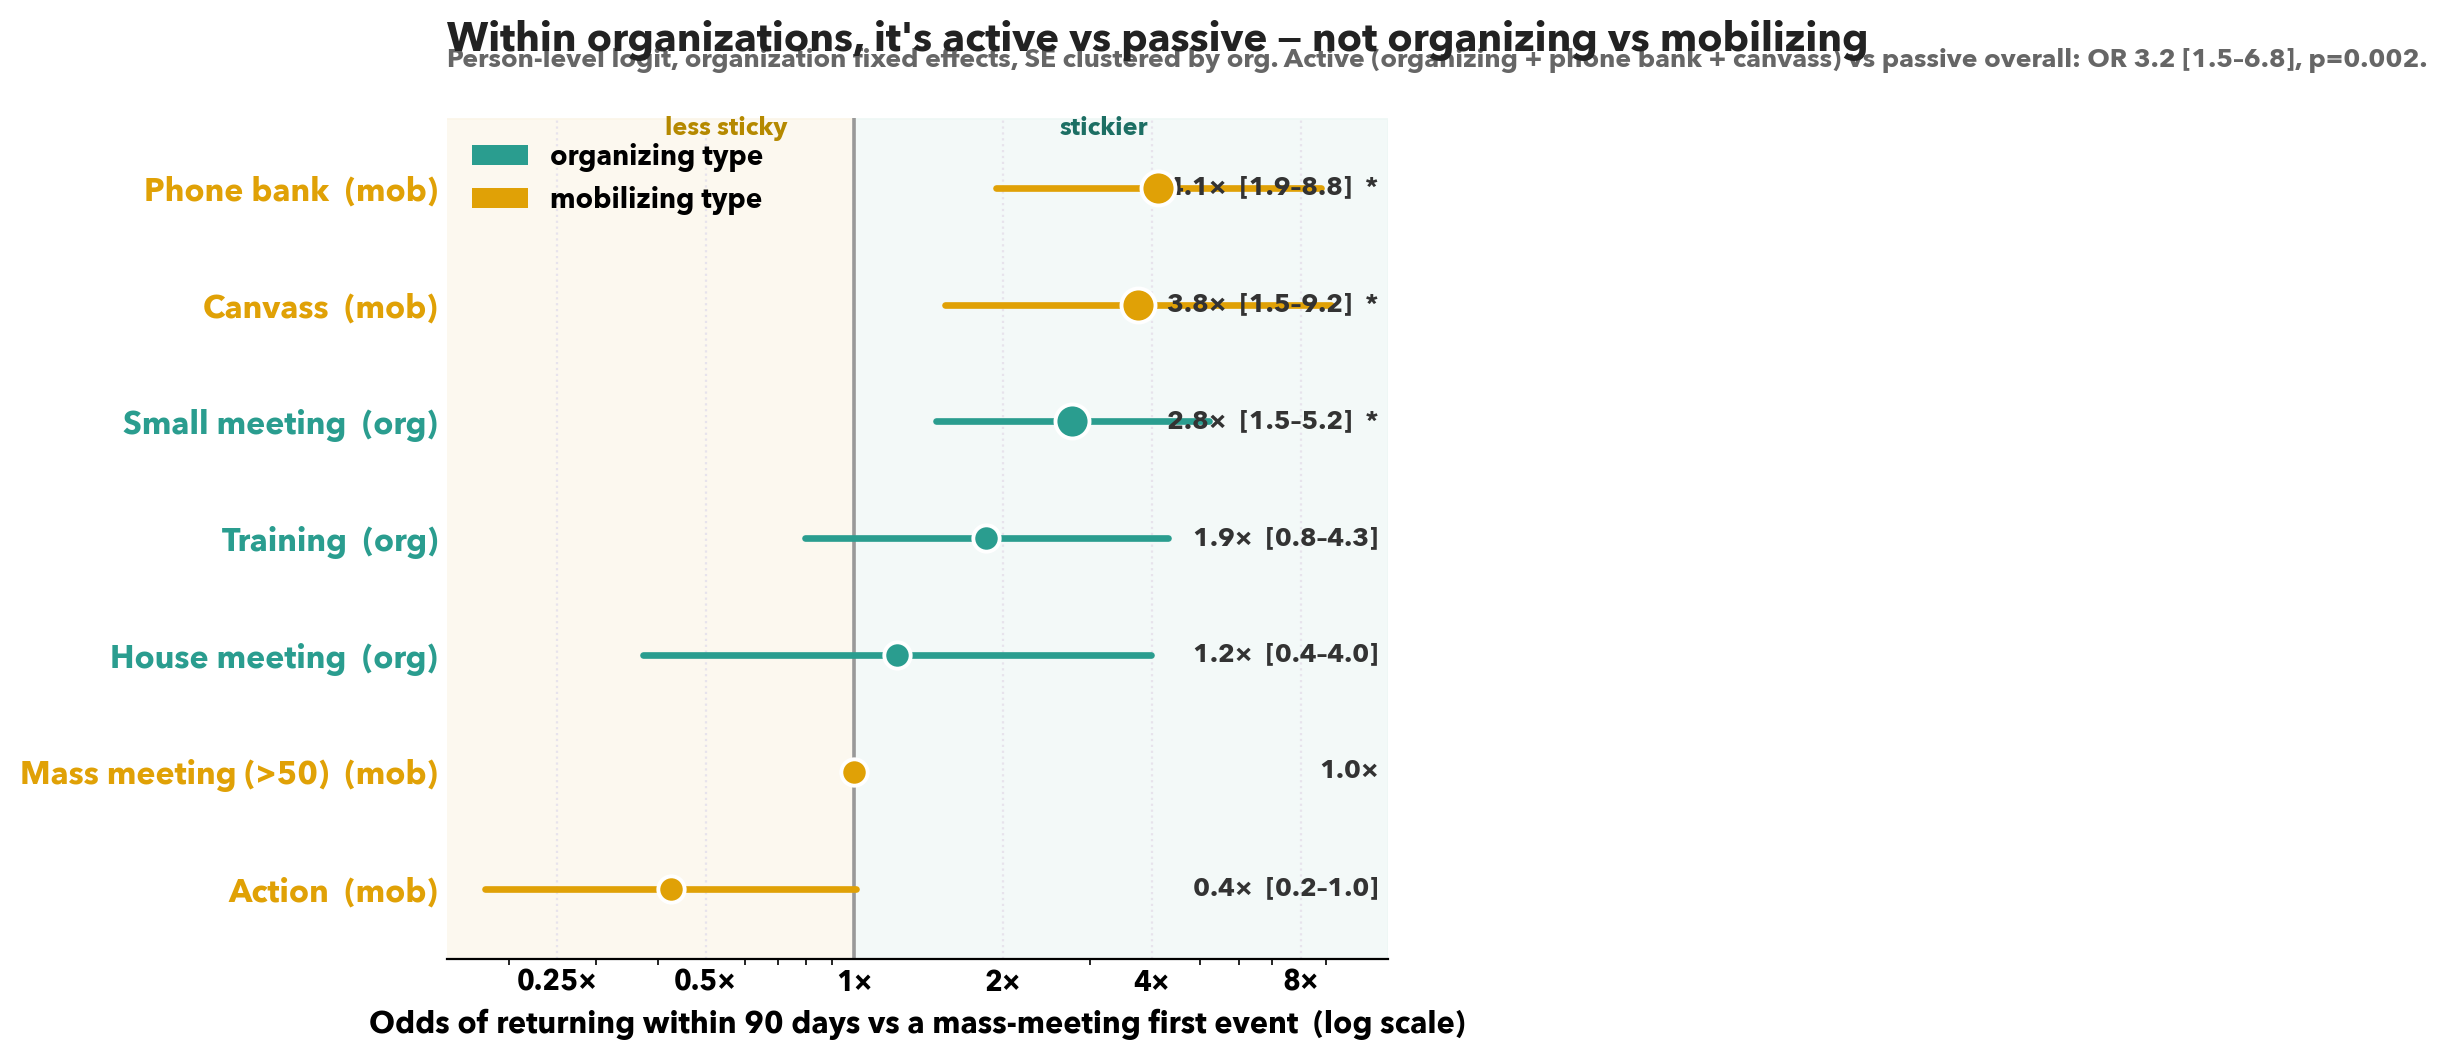
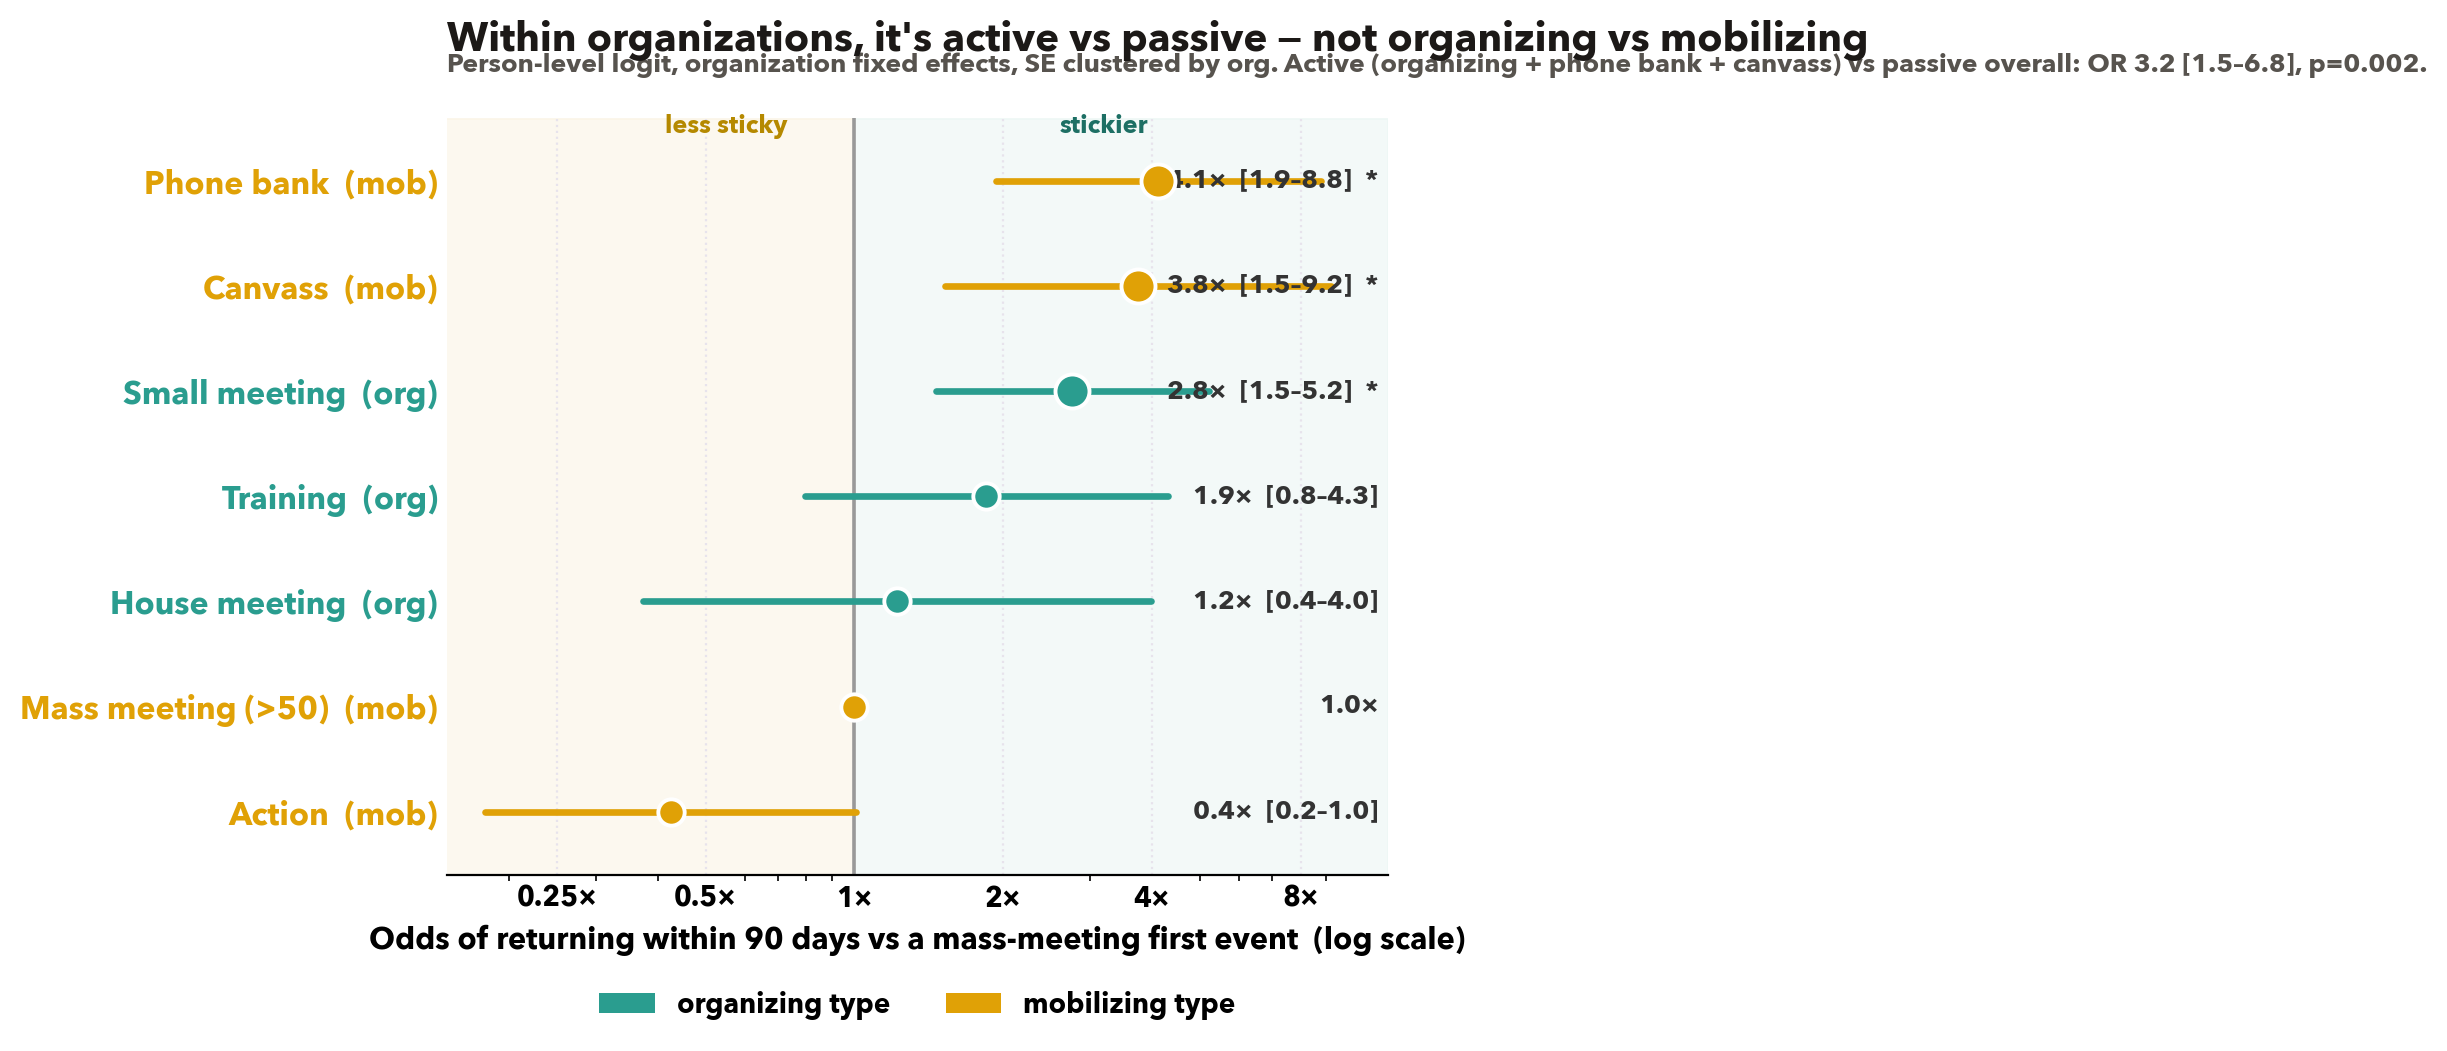
Add slides 15c (return-by-event-type, pooled) + 15d (org-FE forest robustness); legends below plots, deck text colors

diff --git a/index.html b/index.html
@@ -1255,6 +1255,46 @@
     </section>
 
     <!-- ============================================
+         SLIDE 15c: WHICH MOBILIZING EVENTS (return by first-event type)
+         ============================================ -->
+    <section class="slide" id="slide-15c" data-slide="15c" data-section="results" data-result="attrition-org">
+        <div class="corner corner-tl"></div>
+        <div class="corner corner-tr"></div>
+        <div class="corner corner-bl"></div>
+        <div class="corner corner-br"></div>
+
+        <div class="content wide" style="max-width: 1200px;">
+            <div class="statement-box" style="margin-bottom: 1rem;">
+                <p>Which "mobilizing" events? It's <strong>active vs passive</strong>, not organizing vs mobilizing. A relational first touch &mdash; phone bank, canvass, small meeting &mdash; sticks; a passive one &mdash; mass meeting, action &mdash; does not.</p>
+            </div>
+            <div class="fragment" style="display: flex; justify-content: center;">
+                <img src="assets/return-by-subtype-pooled-talk.png" alt="90-day return rate by participants' first event type, pooled across individuals, with 95% confidence intervals" style="max-width: 100%; max-height: 60vh; border-radius: 8px; box-shadow: 0 4px 16px rgba(0,0,0,0.1);">
+            </div>
+        </div>
+        <span class="slide-number">15c</span>
+    </section>
+
+    <!-- ============================================
+         SLIDE 15d: ROBUSTNESS (org fixed-effects forest)
+         ============================================ -->
+    <section class="slide" id="slide-15d" data-slide="15d" data-section="results" data-result="attrition-or">
+        <div class="corner corner-tl"></div>
+        <div class="corner corner-tr"></div>
+        <div class="corner corner-bl"></div>
+        <div class="corner corner-br"></div>
+
+        <div class="content wide" style="max-width: 1200px;">
+            <div class="statement-box" style="margin-bottom: 1rem;">
+                <p>"Isn't that just composition?" No. <strong>Within</strong> organizations (person-level logit, organization fixed effects, SE clustered by org), phone banks (4.1&times;) and canvasses (3.8&times;) are still significantly stickier than a mass-meeting first event.</p>
+            </div>
+            <div class="fragment" style="display: flex; justify-content: center;">
+                <img src="assets/return-by-subtype-forest-talk.png" alt="Forest plot: odds of returning within 90 days by first-event type, organization fixed effects, clustered standard errors" style="max-width: 100%; max-height: 60vh; border-radius: 8px; box-shadow: 0 4px 16px rgba(0,0,0,0.1);">
+            </div>
+        </div>
+        <span class="slide-number">15d</span>
+    </section>
+
+    <!-- ============================================
          SLIDE 17: PURPLE LINE TRACKED
          ============================================ -->
     <section class="slide" id="slide-17" data-slide="17" data-section="results" data-result="purple">
